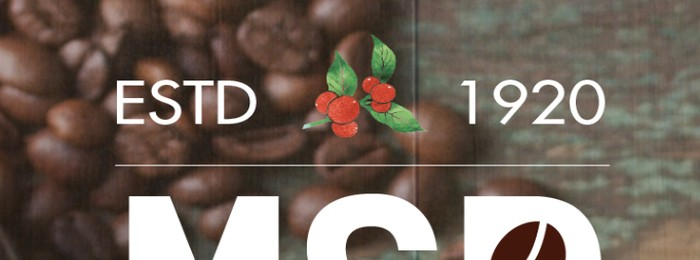
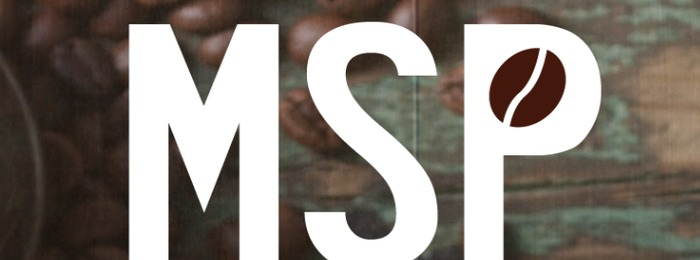
fix: uniform card layout, same font sizes, properly cropped photos

diff --git a/src/app/home/page.tsx b/src/app/home/page.tsx
@@ -6,13 +6,32 @@ import Image from 'next/image';
 
 type AppUser = { id: string; name: string; role: string; estate: string | null };
 
-/* Card 1 — MSP Coffee logo image is the card face (no overlaid MSP text needed) */
-/* Card 2 — MSP (P) Ltd with sacks photo + overlaid MSP branding               */
-/* Card 3 — HillTiller with packages photo                                      */
+/* ── Shared style constants ── */
+const S = {
+  companyFont: { fontFamily: "'Arial Black','Impact',sans-serif", fontSize: '22px', fontWeight: 900, color: 'white', lineHeight: 1.2, textShadow: '0 2px 10px rgba(0,0,0,0.9)' } as React.CSSProperties,
+  coffeeFont:  { fontFamily: "'Arial Black','Impact',sans-serif", fontSize: '46px', fontWeight: 900, color: 'white', letterSpacing: '3px', textShadow: '0 3px 16px rgba(0,0,0,0.9)', lineHeight: 1 } as React.CSSProperties,
+  subFont:     { color: 'rgba(255,255,255,0.85)', fontWeight: 700, fontSize: '14px', letterSpacing: '0.5px' } as React.CSSProperties,
+  estdFont:    { color: 'rgba(255,255,255,0.92)', fontWeight: 700, fontSize: '13px', letterSpacing: '2px' } as React.CSSProperties,
+  mspSize:     '96px',
+  photoHeight: 195,
+  cardStyle:   {
+    background: 'rgba(255,255,255,0.15)',
+    backdropFilter: 'blur(22px) saturate(1.5)',
+    WebkitBackdropFilter: 'blur(22px) saturate(1.5)',
+    border: '1.5px solid rgba(255,255,255,0.30)',
+    boxShadow: '0 16px 50px rgba(0,0,0,0.55), inset 0 1px 0 rgba(255,255,255,0.25)',
+  } as React.CSSProperties,
+  btnStyle: {
+    background: 'rgba(140,102,62,0.52)',
+    border: '1.5px solid rgba(255,255,255,0.30)',
+    backdropFilter: 'blur(10px)',
+    boxShadow: '0 2px 12px rgba(0,0,0,0.4)',
+  } as React.CSSProperties,
+};
 
 function Cherry() {
   return (
-    <svg width="24" height="24" viewBox="0 0 50 50" className="inline-block mx-1 align-middle">
+    <svg width="22" height="22" viewBox="0 0 50 50" className="inline-block mx-1 align-middle">
       <circle cx="16" cy="30" r="10" fill="#c0392b"/>
       <circle cx="30" cy="30" r="10" fill="#e74c3c"/>
       <path d="M16 20 Q23 5 30 20" stroke="#27ae60" strokeWidth="3" fill="none" strokeLinecap="round"/>
@@ -22,167 +41,110 @@ function Cherry() {
   );
 }
 
-function MSPText() {
+function MSPBig() {
   return (
-    <div className="flex items-center justify-center select-none" style={{ lineHeight: 1 }}>
-      <span style={{
-        fontFamily: "'Arial Black','Impact',sans-serif",
-        fontSize: '100px', fontWeight: 900, color: 'white',
-        textShadow: '0 4px 20px rgba(0,0,0,0.9)',
-        letterSpacing: '-2px',
-      }}>MS</span>
-      <span style={{ position: 'relative', display: 'inline-block', width: '84px', height: '108px' }}>
-        <span style={{
-          fontFamily: "'Arial Black','Impact',sans-serif",
-          fontSize: '100px', fontWeight: 900, color: 'white',
-          textShadow: '0 4px 20px rgba(0,0,0,0.9)',
-          position: 'absolute', left: 0, top: 0,
-        }}>P</span>
-        <svg viewBox="0 0 46 58" style={{
-          position: 'absolute', top: '14px', left: '19px',
-          width: '36px', height: '46px', pointerEvents: 'none',
-        }}>
+    <div className="flex items-center justify-center select-none" style={{ lineHeight: 1, margin: '0' }}>
+      <span style={{ fontFamily: "'Arial Black','Impact',sans-serif", fontSize: S.mspSize, fontWeight: 900, color: 'white', textShadow: '0 4px 20px rgba(0,0,0,0.9)', letterSpacing: '-2px' }}>MS</span>
+      <span style={{ position: 'relative', display: 'inline-block', width: '80px', height: '104px' }}>
+        <span style={{ fontFamily: "'Arial Black','Impact',sans-serif", fontSize: S.mspSize, fontWeight: 900, color: 'white', textShadow: '0 4px 20px rgba(0,0,0,0.9)', position: 'absolute', left: 0, top: 0 }}>P</span>
+        <svg viewBox="0 0 46 58" style={{ position: 'absolute', top: '14px', left: '18px', width: '36px', height: '46px', pointerEvents: 'none' }}>
           <ellipse cx="23" cy="29" rx="20" ry="25" fill="#5c2d0a"/>
-          <path d="M23 7 Q37 18 35 29 Q37 40 23 51"
-            stroke="#a0522d" strokeWidth="3.5" fill="none" strokeLinecap="round"/>
+          <path d="M23 7 Q37 18 35 29 Q37 40 23 51" stroke="#a0522d" strokeWidth="3.5" fill="none" strokeLinecap="round"/>
         </svg>
       </span>
     </div>
   );
 }
 
-/* ── Card 1: MSP Coffee — logo image fills the card centre ── */
+/* ── Uniform card wrapper ── */
+function Card({ children }: { children: React.ReactNode }) {
+  return (
+    <div className="flex flex-col rounded-2xl overflow-hidden" style={S.cardStyle}>
+      {children}
+    </div>
+  );
+}
+
+function EnterBtn({ onClick }: { onClick: () => void }) {
+  return (
+    <div className="px-4 pb-4 pt-3">
+      <button onClick={onClick} className="w-full py-2.5 rounded-xl font-semibold text-base text-white transition-all duration-150 active:scale-95" style={S.btnStyle}>
+        Enter
+      </button>
+    </div>
+  );
+}
+
+function PhotoBox({ src, alt }: { src: string; alt: string }) {
+  return (
+    <div className="relative mx-3 rounded-xl overflow-hidden" style={{ height: S.photoHeight, flexShrink: 0 }}>
+      <Image src={src} alt={alt} fill className="object-cover object-center" style={{ filter: 'brightness(0.94) saturate(1.05)' }}/>
+    </div>
+  );
+}
+
+function CoffeeSub({ sub }: { sub: string }) {
+  return (
+    <div className="text-center px-3 pt-2 pb-0">
+      <p style={S.coffeeFont}>COFFEE</p>
+      <p style={{ ...S.subFont, marginTop: '3px' }}>{sub}</p>
+    </div>
+  );
+}
+
+/* ── Card 1: MSP Coffee ── */
 function Card1({ onEnter }: { onEnter: () => void }) {
   return (
-    <div className="flex flex-col rounded-2xl overflow-hidden"
-         style={{
-           background: 'rgba(255,255,255,0.15)',
-           backdropFilter: 'blur(22px) saturate(1.6)',
-           WebkitBackdropFilter: 'blur(22px) saturate(1.6)',
-           border: '1.5px solid rgba(255,255,255,0.32)',
-           boxShadow: '0 16px 56px rgba(0,0,0,0.55), inset 0 1px 0 rgba(255,255,255,0.28)',
-         }}>
-      {/* Company */}
-      <div className="text-center px-4 pt-4 pb-1">
-        <p style={{ fontFamily:"'Arial Black','Impact',sans-serif", fontSize:'22px', fontWeight:900,
-                    color:'white', textShadow:'0 2px 8px rgba(0,0,0,0.8)' }}>MSP Coffee</p>
+    <Card>
+      <div className="text-center px-4 pt-4 pb-0.5">
+        <p style={S.companyFont}>MSP Coffee</p>
+        <p style={S.estdFont}>ESTD <Cherry /> 1920</p>
       </div>
-      {/* Full MSP logo image — already has ESTD / MSP / COFFEE */}
-      <div className="relative mx-3 rounded-xl overflow-hidden flex-1" style={{ minHeight: '380px' }}>
-        <Image src="/msp-logo.png" alt="MSP Coffee" fill className="object-cover object-center"
-               style={{ filter: 'brightness(0.95)' }}/>
-      </div>
-      {/* Subtitle */}
-      <div className="text-center px-3 pt-2 pb-0">
-        <p style={{ color:'rgba(255,255,255,0.82)', fontWeight:600, fontSize:'15px' }}>Estate Management</p>
-      </div>
-      {/* Enter */}
-      <div className="px-4 py-4">
-        <button onClick={onEnter}
-          className="w-full py-2.5 rounded-xl font-semibold text-base text-white active:scale-95 transition-all duration-150"
-          style={{ background:'rgba(145,108,68,0.50)', border:'1.5px solid rgba(255,255,255,0.32)',
-                   backdropFilter:'blur(10px)', boxShadow:'0 2px 14px rgba(0,0,0,0.35)' }}>
-          Enter
-        </button>
-      </div>
-    </div>
+      <MSPBig />
+      <PhotoBox src="/home/card1-beans.jpg" alt="Estate" />
+      <CoffeeSub sub="Estate Management" />
+      <EnterBtn onClick={onEnter} />
+    </Card>
   );
 }
 
-/* ── Card 2: MSP (P) Ltd — sacks photo with overlaid branding ── */
+/* ── Card 2: MSP (P) Ltd ── */
 function Card2({ onEnter }: { onEnter: () => void }) {
   return (
-    <div className="flex flex-col rounded-2xl overflow-hidden"
-         style={{
-           background: 'rgba(255,255,255,0.15)',
-           backdropFilter: 'blur(22px) saturate(1.6)',
-           WebkitBackdropFilter: 'blur(22px) saturate(1.6)',
-           border: '1.5px solid rgba(255,255,255,0.32)',
-           boxShadow: '0 16px 56px rgba(0,0,0,0.55), inset 0 1px 0 rgba(255,255,255,0.28)',
-         }}>
+    <Card>
       <div className="text-center px-4 pt-4 pb-0.5">
-        <p style={{ fontFamily:"'Arial Black','Impact',sans-serif", fontSize:'22px', fontWeight:900,
-                    color:'white', textShadow:'0 2px 8px rgba(0,0,0,0.8)' }}>MSP (P) Ltd</p>
-        <span style={{ color:'rgba(255,255,255,0.88)', fontWeight:700, fontSize:'13px', letterSpacing:'2px' }}>
-          ESTD <Cherry /> 1920
-        </span>
+        <p style={S.companyFont}>MSP (P) Ltd</p>
+        <p style={S.estdFont}>ESTD <Cherry /> 1920</p>
       </div>
-      <MSPText />
-      <div className="relative mx-3 rounded-xl overflow-hidden" style={{ height:'200px' }}>
-        <Image src="/msp-sacks.png" alt="MSP Sacks" fill className="object-cover object-center"
-               style={{ filter:'brightness(0.93) saturate(1.1)' }}/>
-      </div>
-      <div className="text-center px-3 pt-2 pb-0">
-        <p style={{ fontFamily:"'Arial Black','Impact',sans-serif", fontSize:'44px', fontWeight:900,
-                    color:'white', letterSpacing:'3px', textShadow:'0 3px 14px rgba(0,0,0,0.8)', lineHeight:1.05 }}>
-          COFFEE
-        </p>
-        <p style={{ color:'rgba(255,255,255,0.82)', fontWeight:600, fontSize:'14px', marginTop:'2px' }}>
-          Trading Management
-        </p>
-      </div>
-      <div className="px-4 py-4">
-        <button onClick={onEnter}
-          className="w-full py-2.5 rounded-xl font-semibold text-base text-white active:scale-95 transition-all duration-150"
-          style={{ background:'rgba(145,108,68,0.50)', border:'1.5px solid rgba(255,255,255,0.32)',
-                   backdropFilter:'blur(10px)', boxShadow:'0 2px 14px rgba(0,0,0,0.35)' }}>
-          Enter
-        </button>
-      </div>
-    </div>
+      <MSPBig />
+      <PhotoBox src="/home/card2-sacks-crop.jpg" alt="Sacks" />
+      <CoffeeSub sub="Trading Management" />
+      <EnterBtn onClick={onEnter} />
+    </Card>
   );
 }
 
-/* ── Card 3: HillTiller Coffee Roasters ── */
+/* ── Card 3: HillTiller ── */
 function Card3({ onEnter }: { onEnter: () => void }) {
   return (
-    <div className="flex flex-col rounded-2xl overflow-hidden"
-         style={{
-           background: 'rgba(255,255,255,0.15)',
-           backdropFilter: 'blur(22px) saturate(1.6)',
-           WebkitBackdropFilter: 'blur(22px) saturate(1.6)',
-           border: '1.5px solid rgba(255,255,255,0.32)',
-           boxShadow: '0 16px 56px rgba(0,0,0,0.55), inset 0 1px 0 rgba(255,255,255,0.28)',
-         }}>
+    <Card>
       <div className="text-center px-4 pt-4 pb-0">
-        <p style={{ fontFamily:"'Arial Black','Impact',sans-serif", fontSize:'22px', fontWeight:900,
-                    color:'white', lineHeight:1.2, textShadow:'0 2px 8px rgba(0,0,0,0.8)' }}>HillTiller</p>
-        <p style={{ fontFamily:"'Arial Black','Impact',sans-serif", fontSize:'22px', fontWeight:900,
-                    color:'white', lineHeight:1.2, textShadow:'0 2px 8px rgba(0,0,0,0.8)' }}>Coffee Roasters</p>
+        <p style={S.companyFont}>HillTiller</p>
+        <p style={S.companyFont}>Coffee Roasters</p>
       </div>
-      {/* HillTiller logo */}
-      <div className="flex flex-col items-center gap-0.5 py-2">
-        <div className="relative rounded-xl overflow-hidden" style={{ width:170, height:104 }}>
-          <Image src="/home/hill-logo-trans.png" alt="HillTiller Logo" fill className="object-contain"/>
+      {/* HillTiller logo + SPECIALTY BLENDS takes same vertical space as ESTD + MSP rows */}
+      <div className="flex flex-col items-center justify-center" style={{ height: '128px' }}>
+        <div className="relative" style={{ width: 168, height: 96 }}>
+          <Image src="/home/hill-logo-trans.png" alt="HillTiller" fill className="object-contain"/>
         </div>
-        <p style={{ fontFamily:"'Arial Black','Impact',sans-serif", fontSize:'10px',
-                    letterSpacing:'4px', color:'rgba(255,255,255,0.85)', fontWeight:900 }}>
+        <p style={{ fontFamily: "'Arial Black','Impact',sans-serif", fontSize: '10px', letterSpacing: '4px', color: 'rgba(255,255,255,0.88)', fontWeight: 900, marginTop: '2px' }}>
           SPECIALTY BLENDS
         </p>
       </div>
-      {/* Packages photo */}
-      <div className="relative mx-3 rounded-xl overflow-hidden" style={{ height:'210px' }}>
-        <Image src="/hill-packages.png" alt="HillTiller Packages" fill className="object-cover object-center"
-               style={{ filter:'brightness(0.95) saturate(1.05)' }}/>
-      </div>
-      <div className="text-center px-3 pt-2 pb-0">
-        <p style={{ fontFamily:"'Arial Black','Impact',sans-serif", fontSize:'44px', fontWeight:900,
-                    color:'white', letterSpacing:'3px', textShadow:'0 3px 14px rgba(0,0,0,0.8)', lineHeight:1.05 }}>
-          COFFEE
-        </p>
-        <p style={{ color:'rgba(255,255,255,0.82)', fontWeight:600, fontSize:'14px', marginTop:'2px' }}>
-          Sales Management
-        </p>
-      </div>
-      <div className="px-4 py-4">
-        <button onClick={onEnter}
-          className="w-full py-2.5 rounded-xl font-semibold text-base text-white active:scale-95 transition-all duration-150"
-          style={{ background:'rgba(145,108,68,0.50)', border:'1.5px solid rgba(255,255,255,0.32)',
-                   backdropFilter:'blur(10px)', boxShadow:'0 2px 14px rgba(0,0,0,0.35)' }}>
-          Enter
-        </button>
-      </div>
-    </div>
+      <PhotoBox src="/home/card3-pkgs-crop.jpg" alt="Packages" />
+      <CoffeeSub sub="Sales Management" />
+      <EnterBtn onClick={onEnter} />
+    </Card>
   );
 }
 
@@ -207,27 +169,30 @@ export default function HomePage() {
 
   return (
     <div className="relative min-h-screen flex flex-col items-center justify-center overflow-hidden px-4 py-6">
+
       {/* Background */}
       <div className="absolute inset-0">
         <Image src="/bg.png" alt="bg" fill className="object-cover"
-               style={{ filter:'blur(10px) brightness(0.52)', transform:'scale(1.1)' }}/>
+               style={{ filter: 'blur(10px) brightness(0.52)', transform: 'scale(1.1)' }}/>
         <div className="absolute inset-0"
-             style={{ background:'linear-gradient(145deg,rgba(65,35,10,0.55) 0%,rgba(85,50,18,0.4) 100%)' }}/>
+             style={{ background: 'linear-gradient(145deg,rgba(65,35,10,0.50) 0%,rgba(85,50,18,0.38) 100%)' }}/>
       </div>
 
       {/* Header */}
       <div className="relative z-10 text-center mb-6">
-        <h1 className="uppercase" style={{
-          fontFamily:"'Arial Black','Impact',sans-serif",
-          fontSize:'clamp(28px,5.5vw,64px)', fontWeight:900, color:'white',
-          letterSpacing:'4px', textShadow:'0 4px 24px rgba(0,0,0,0.9), 0 1px 4px rgba(0,0,0,1)',
+        <h1 style={{
+          fontFamily: "'Arial Black','Impact',sans-serif",
+          fontSize: 'clamp(26px, 5vw, 62px)',
+          fontWeight: 900, color: 'white', letterSpacing: '3px', textTransform: 'uppercase',
+          textShadow: '0 4px 24px rgba(0,0,0,0.95), 0 1px 4px rgba(0,0,0,1)',
+          lineHeight: 1.05,
         }}>
           Welcome to MSP Coffee World
         </h1>
       </div>
 
-      {/* Cards */}
-      <div className="relative z-10 grid grid-cols-1 sm:grid-cols-3 gap-5 w-full max-w-5xl">
+      {/* Cards — equal height via grid */}
+      <div className="relative z-10 grid grid-cols-1 sm:grid-cols-3 gap-5 w-full max-w-5xl items-start">
         <Card1 onEnter={() => router.push('/rainfall')} />
         <Card2 onEnter={() => soon('Trading Management')} />
         <Card3 onEnter={() => soon('Sales Management')} />
@@ -236,8 +201,8 @@ export default function HomePage() {
       <div className="relative z-10 mt-6 text-white/30 text-2xl select-none">✦</div>
 
       {toast && (
-        <div className="fixed bottom-6 left-1/2 -translate-x-1/2 z-50 px-5 py-3 rounded-xl text-sm font-semibold text-white shadow-2xl"
-             style={{ background:'rgba(20,10,5,0.93)', border:'1px solid rgba(255,255,255,0.2)', backdropFilter:'blur(14px)' }}>
+        <div className="fixed bottom-6 left-1/2 -translate-x-1/2 z-50 px-5 py-3 rounded-xl text-sm font-semibold text-white"
+             style={{ background: 'rgba(20,10,5,0.93)', border: '1px solid rgba(255,255,255,0.2)', backdropFilter: 'blur(14px)' }}>
           🚧 {toast}
         </div>
       )}
